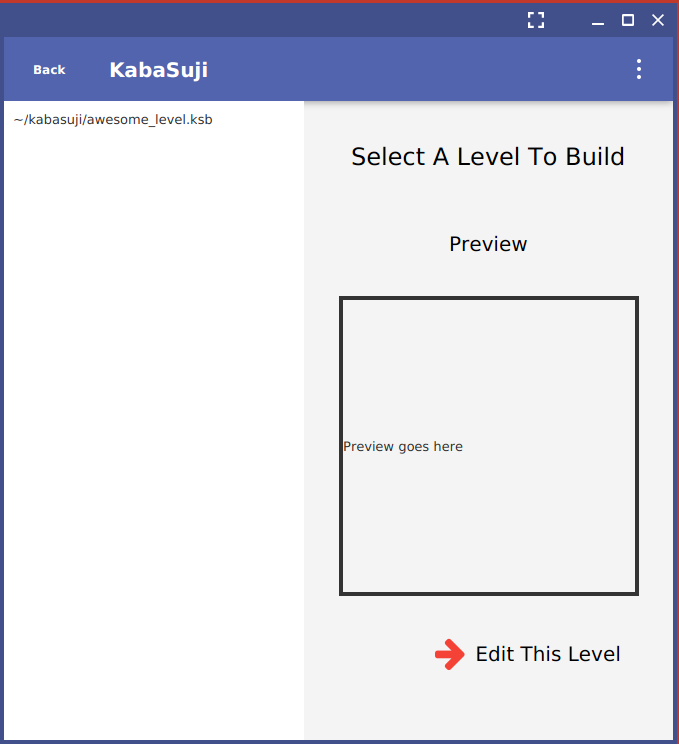
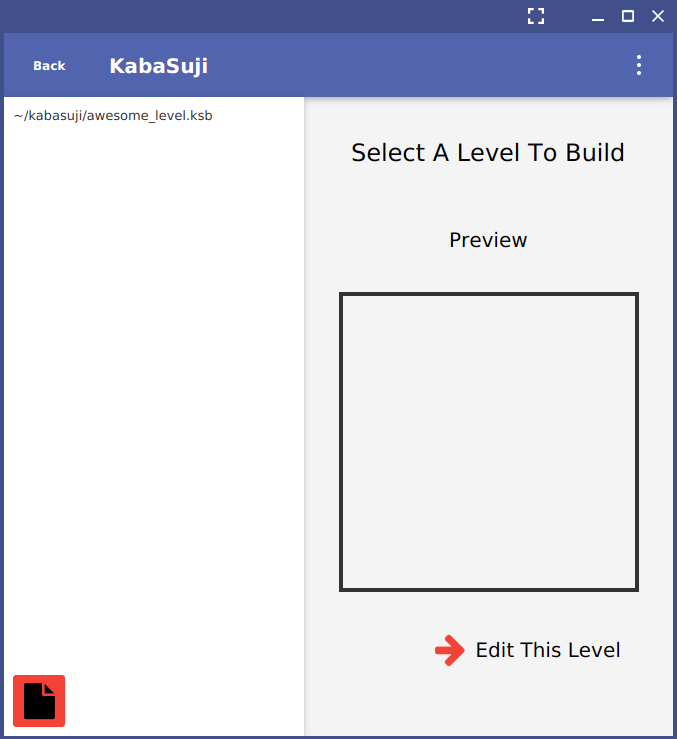
Scraped together the guis for final mockups
- got pieces and boards to display
 - updated screenshots

Still missing:
 - build release levels
 - build lightening levels
 - specify board size

diff --git a/src/kabasuji/views/BuildLevelView.java b/src/kabasuji/views/BuildLevelView.java
@@ -3,23 +3,23 @@ package kabasuji.views;
 import java.io.IOException;
 import java.net.URL;
 import java.util.ArrayList;
-import java.util.List;
 import java.util.ResourceBundle;
 
 import com.jfoenix.controls.JFXListView;
 import com.jfoenix.effects.JFXDepthManager;
+import com.sun.xml.internal.bind.v2.schemagen.xmlschema.List;
 
 import de.jensd.fx.glyphs.fontawesome.FontAwesomeIconView;
-
 import javafx.collections.FXCollections;
 import javafx.fxml.FXML;
 import javafx.fxml.FXMLLoader;
 import javafx.fxml.Initializable;
+import javafx.geometry.Insets;
+import javafx.geometry.Pos;
 import javafx.scene.control.Label;
 import javafx.scene.layout.BorderPane;
 import javafx.scene.layout.Pane;
 import javafx.scene.layout.VBox;
-
 import kabasuji.models.Level;
 import kabasuji.models.Piece;
 import kabasuji.models.Square;
@@ -27,7 +27,7 @@ import kabasuji.models.Square;
 public class BuildLevelView extends BorderPane implements Initializable {
 
   @FXML
-  private JFXListView bullpenListView;
+  private JFXListView<Pane> bullpenListView;
 
   @FXML
   private Label levelLabel;
@@ -58,30 +58,32 @@ public class BuildLevelView extends BorderPane implements Initializable {
   public void initialize(URL location, ResourceBundle resources) {
     JFXDepthManager.setDepth(bullpenListView, 1);
 
-    List<Pane> values = new ArrayList<Pane>();
+    ArrayList<Pane> values = new ArrayList<Pane>();
 
     Piece[] pieces = new Piece[1];
     pieces[0] = new Piece();
-    pieces[0].squares[0] = new Square(0,0);
-    pieces[0].squares[1] = new Square(1,0);
-    pieces[0].squares[2] = new Square(1,1);
-    pieces[0].squares[3] = new Square(1,2);
-    pieces[0].squares[4] = new Square(1,3);
-    pieces[0].squares[5] = new Square(1,4);
+    pieces[0].squares[0] = new Square(0, 0);
+    pieces[0].squares[1] = new Square(1, 0);
+    pieces[0].squares[2] = new Square(1, 1);
+    pieces[0].squares[3] = new Square(1, 2);
+    pieces[0].squares[4] = new Square(1, 3);
+    pieces[0].squares[5] = new Square(1, 4);
 
     int S = 16;
     for (Piece pieceModel : pieces) {
 
       // add a piece to the bullpen as an example
       Pane piecePane = new Pane();
-      PieceView pieceView = new PieceView(pieceModel);
+      PieceView pieceView = new PieceView(pieceModel, 16);
       piecePane.getChildren().add(pieceView);
       values.add(piecePane);
     }
 
     bullpenListView.setItems(FXCollections.observableList(values));
 
-    boardView = new BoardView(levelModel.board);
+    boardView = new BoardView(levelModel.board.squares);
+    centerBox.setMargin(boardView, new Insets(10, 10, 10, 10));
+    centerBox.setAlignment(Pos.TOP_RIGHT);
     centerBox.getChildren().add(boardView);
   }
 }

diff --git a/src/kabasuji/views/BoardView.java b/src/kabasuji/views/BoardView.java
@@ -2,20 +2,22 @@ package kabasuji.views;
 
 import javafx.scene.layout.Pane;
 import javafx.scene.paint.Color;
-import javafx.scene.shape.Rectangle;
-
 import kabasuji.models.Board;
+import kabasuji.models.Square;
 
 class BoardView extends Pane {
 
-  PieceView[][] grid = new PieceView[Board.SIZE][Board.SIZE];
-  private Board boardModel;
+  static final int SQUARE_SIZE = 45;
+  
+  SquareView[][] grid = new SquareView[Board.SIZE][Board.SIZE];
 
-  public BoardView(Board boardModel) {
-    this.boardModel = boardModel;
-    for (int i=0;i<Board.SIZE;i++){
-      for (int j=0;j<Board.SIZE;j++){
-        grid[i][j] = new PieceView(boardModel.grid[i][j]);
+  public BoardView(Square squares[][]) {
+    for (int i = 0; i < Board.SIZE; i++) {
+      for (int j = 0; j < Board.SIZE; j++) {
+        grid[i][j] = new SquareView(squares[i][j], SQUARE_SIZE);
+        grid[i][j].setX(Square.SIZE * i);
+        grid[i][j].setY(Square.SIZE * j);
+        grid[i][j].setFill(Color.GRAY);
         this.getChildren().add(grid[i][j]);
       }
     }

diff --git a/src/kabasuji/views/PieceView.java b/src/kabasuji/views/PieceView.java
@@ -7,16 +7,14 @@ import kabasuji.models.Square;
 
 public class PieceView extends Pane {
 
-  public static final int SIZE = 16;// in pixels
-
   Piece pieceModel;
 
-  public PieceView(Piece pieceModel){
+  public PieceView(Piece pieceModel, int squareSize) {
     this.pieceModel = pieceModel;
-    for (Square s : pieceModel.squares){
-      SquareView view = new SquareView(s);
-      view.setX(s.dRow * SIZE);
-      view.setY(s.dCol * SIZE);
+    for (Square s : pieceModel.squares) {
+      SquareView view = new SquareView(s, squareSize);
+      view.setX(s.dRow * squareSize);
+      view.setY(s.dCol * squareSize);
       getChildren().add(view);
     }
   }

diff --git a/src/kabasuji/views/SquareView.java b/src/kabasuji/views/SquareView.java
@@ -7,15 +7,16 @@ import kabasuji.models.Square;
 
 public class SquareView extends Rectangle {
 
-  public static final int SIZE = 16;//in pixels
+  public int size = 16;// in pixels
 
   Square squareModel;
 
-  public SquareView(Square squareModel){
+  public SquareView(Square squareModel, int size) {
+    this.size = size;
     this.squareModel = squareModel;
-    setWidth(SIZE);
-    setHeight(SIZE);
+    setWidth(size);
+    setHeight(size);
     setFill(Color.BLUE);
+    setStroke(Color.BLACK);
   }
 }
-

diff --git a/src/kabasuji/models/Board.java b/src/kabasuji/models/Board.java
@@ -4,12 +4,12 @@ public class Board {
 
   public static final int SIZE = 12;
 
-  public Piece[][] grid = new Piece[SIZE][SIZE];
+  public Square[][] squares = new Square[SIZE][SIZE];
 
   public Board() {
     for (int i=0;i<SIZE;i++){
       for (int j=0;j<SIZE;j++){
-        grid[i][j] = new Piece(i,j);
+        squares[i][j] = new Square();
       }
     }
   }

diff --git a/src/kabasuji/models/Square.java b/src/kabasuji/models/Square.java
@@ -2,11 +2,13 @@ package kabasuji.models;
 
 public class Square {
   public int dRow, dCol;
+  public static final int SIZE = 30; // in pixels
 
-  public Square(int dRow, int dCol){
+  public Square(int dRow, int dCol) {
     this.dRow = dRow;
     this.dCol = dCol;
   }
-  
-  public Square(){}
+
+  public Square() {
+  }
 }
